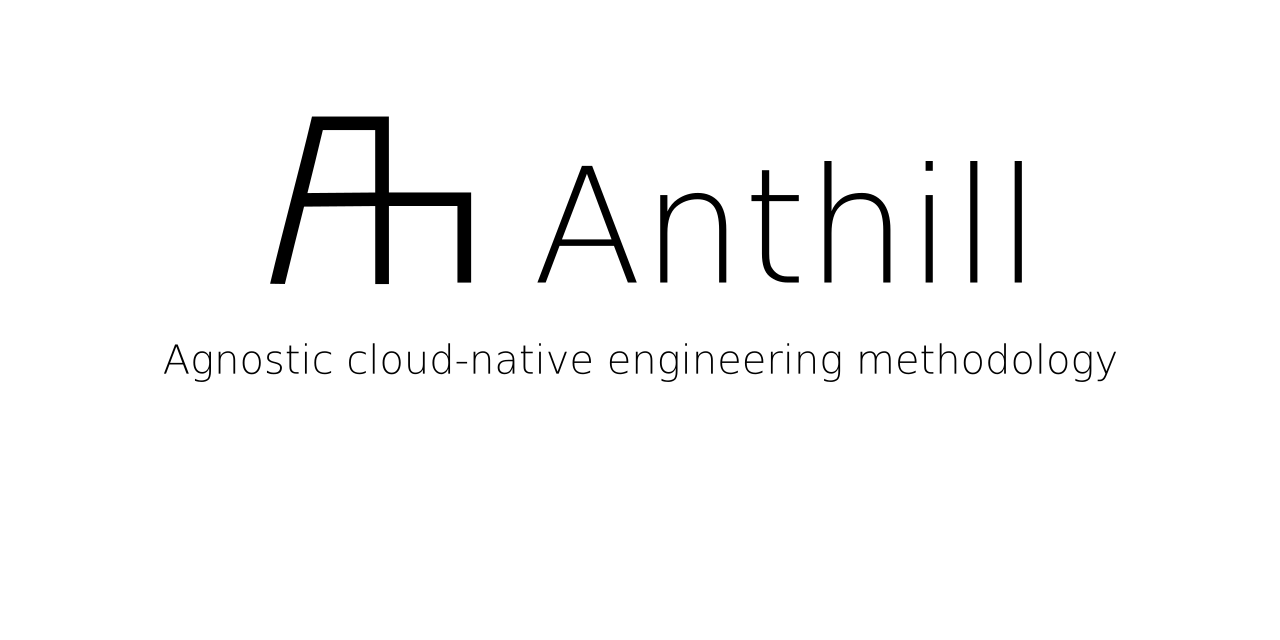
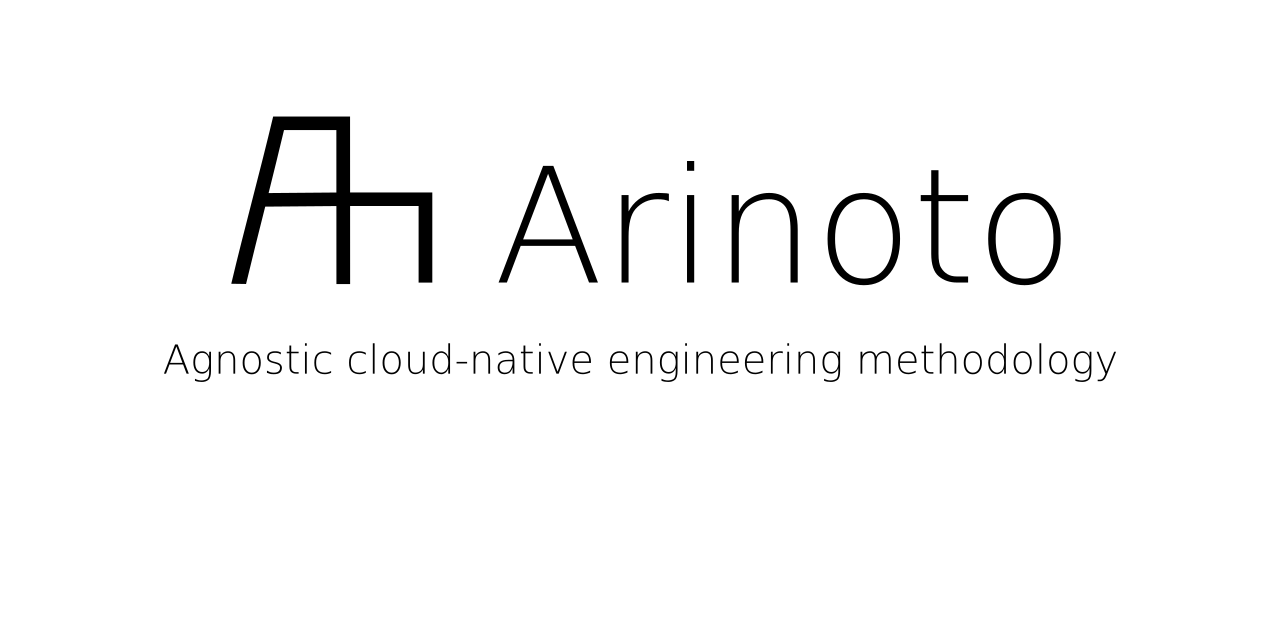
anthill === arinoto

Changed region(s): [[0.1562, 0.1562, 0.8438, 0.4688]]

diff --git a/README.md b/README.md
@@ -1,4 +1,4 @@
-# Anthill
+# Arinoto / Anthill
 
 Anthill is a software engineering methodology, allowing for a runtime-agnostic, pluggable, iterative and refactorable Everything-As-A-Code solution architecture, design, infrastructure 
 and ... well, code.
